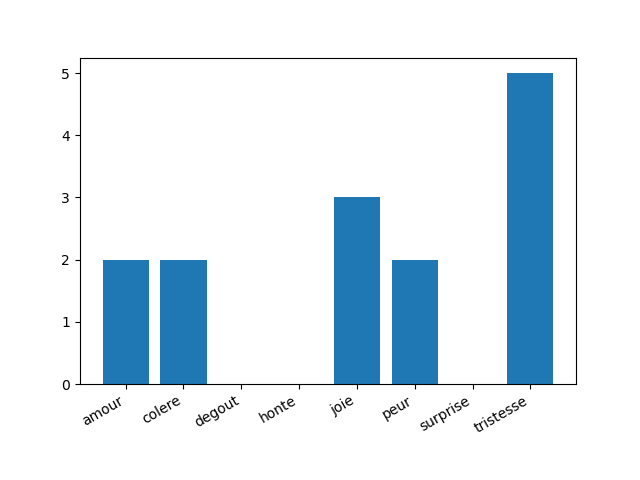
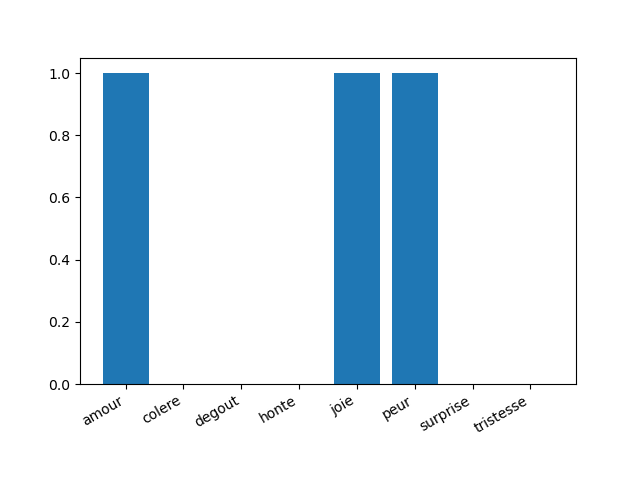
boucle_genius

diff --git a/Siham/Scraping_genuis.py b/Siham/Scraping_genuis.py
@@ -18,7 +18,7 @@ def mots_genius(url):
         list += decouper(ligne)
     return list
 
-def emotions(url):
+def emotions(url, titre, artiste):
     mots_finals = mots_genius(url)
     dic = {}
     for emotion in ["amour", "colere", "degout", "honte", "joie", "peur",\
@@ -28,6 +28,21 @@ def emotions(url):
             for mot in decouper(fichier.read()):
                 if mot in mots_finals :
                     dic[emotion] += 1
-    afficher(dic)
+    afficher(dic, titre, artiste)
 
-emotions("https://genius.com/Keenv-explique-moi-lyrics")
+urls = ["https://genius.com/Keenv-explique-moi-lyrics", "https://genius.com/Keenv-les-mots-lyrics", \
+"https://genius.com/Keenv-saltimbanque-lyrics", "https://genius.com/Keenv-ma-vie-au-soleil-lyrics"]
+def boucle_genius(urls):
+    for url in urls:
+        while True:
+            page = requests.get(url).text
+            soup = BeautifulSoup(page, "lxml")
+            titre = soup.find(class_="SongHeader__Title-sc-1b7aqpg-7")
+            artiste = soup.find(class_="SongHeader__Artist-sc-1b7aqpg-8")
+            print("artiste : ", artiste, " titre : ", titre)
+            if artiste != titre != None:
+                emotions(url, titre, artiste)
+                break
+
+boucle_genius(urls)
+#emotions("https://genius.com/Keenv-explique-moi-lyrics")

diff --git a/Siham/main_nltk.py b/Siham/main_nltk.py
@@ -7,6 +7,8 @@ from nltk.sentiment.vader import SentimentIntensityAnalyzer
 from collections import Counter
 import matplotlib.pyplot as plt
 
+import os
+
 def sentiment_analyse(texte):
     scores = SentimentIntensityAnalyzer().polarity_score(texte)
     negative, positive = score['neg'], score['pos']
@@ -19,13 +21,15 @@ def decouper(texte):
     mots_utiles = [mot for mot in mots if mot not in stopwords.words("french")]
     return mots_utiles
 
-def afficher(list_emotions, nom_image="graph.png" ):
+def afficher(list_emotions, titre, artiste, nom_image="graph.png" ):
     w = Counter(list_emotions)
+    path = "C:\\Users\\siham\\github\\Analyse-Sentiments\\Siham\\" + str(artiste)
+    os.makedirs(path)
     fig, axl = plt.subplots()
     plt.bar( w.keys(), w.values() )
     fig.autofmt_xdate()
-    plt.savefig( nom_image )
-    plt.show()
+    plt.savefig(titre)
+    #plt.show()
     print(w)
 
 def traitement(usefull):

diff --git a/Jawad/scraping.py b/Jawad/scraping.py
@@ -47,7 +47,7 @@ def boucle_genius(urls):
             while True:
                 page = requests.get(url).text
                 soup = BeautifulSoup(page, "lxml")
-                print(url.split("/")[3], "soup:", soup)
+                print(url.split("/")[3])
                 artiste = soup.find(class_="Link-h3isu4-0 dpVWpH SongHeader__Artist-sc-1b7aqpg-8 DYpgM")
                 #artiste = soup.find(class="Link-h3isu4-0 dpVWpH SongHeader__Artist-sc-1b7aqpg-8 DYpgM")
                 titre = soup.find(class_="SongHeader__Title-sc-1b7aqpg-7 jQiTNQ")
